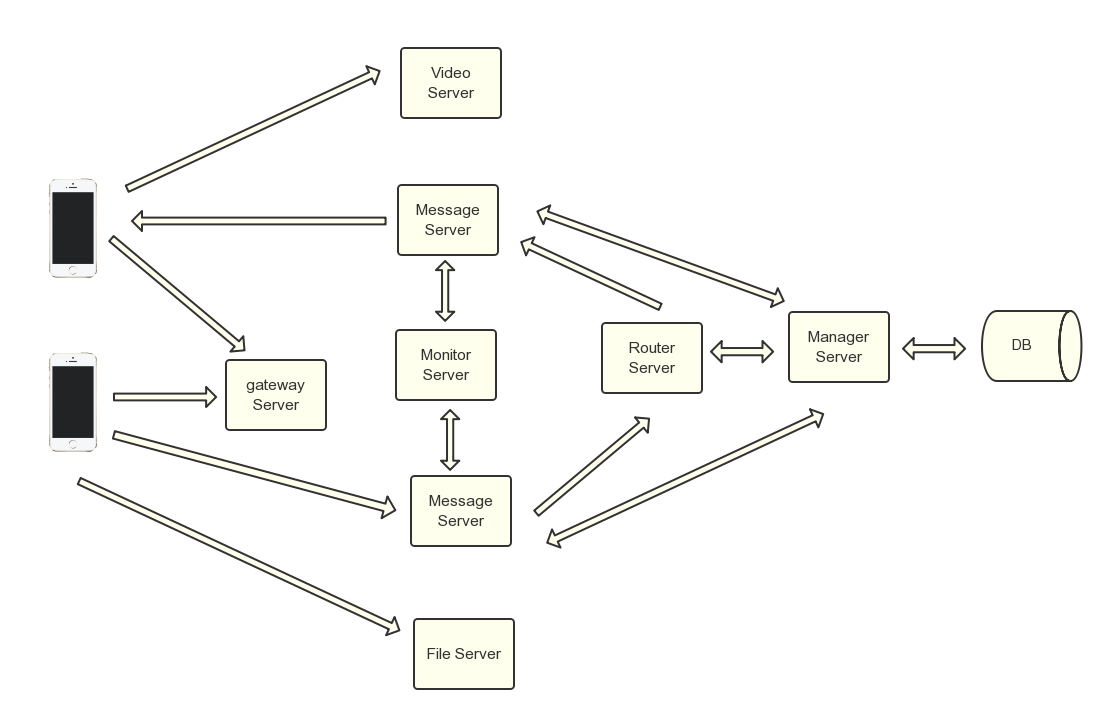
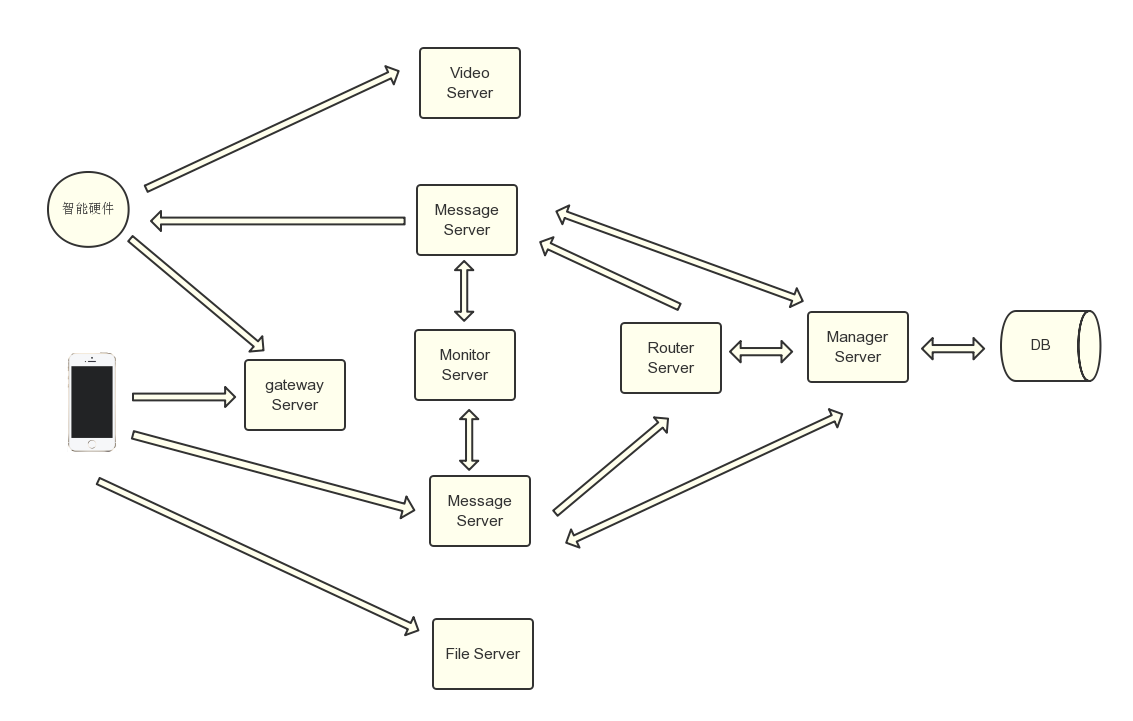
fix readme and modify architecture description

diff --git a/README.md b/README.md
@@ -3,10 +3,10 @@
 FishChatServer
 ======
 
-FishChat(鱼传 - `鱼传尺素`) - FishChat是一款优秀的即时通讯软件(IM), 它集合了市面上已有产品的优点, 并具备**智能硬件网关管理(学习QQ物联思想, 构思中)**.
+FishChat(鱼传 - `鱼传尺素`) - FishChat是一款优秀的即时通讯软件(IM), 它集合了市面上已有产品的优点, 并具备**智能硬件网关管理(代码不是很成熟, 暂不公开)**.
 > **NOTE:** 鱼传取自古乐府《饮马长城窟行》`客从远方来, 遗我双鲤鱼. 呼儿烹鲤鱼, 中有尺素书.` 
 
-FishChat Android客户端见 https://github.com/oikomi/FishChatAndroid (紧张开发中)
+FishChat Android客户端见 https://github.com/oikomi/FishChatAndroid (紧张开发中, not usable yet)
 
 Status
 ======
